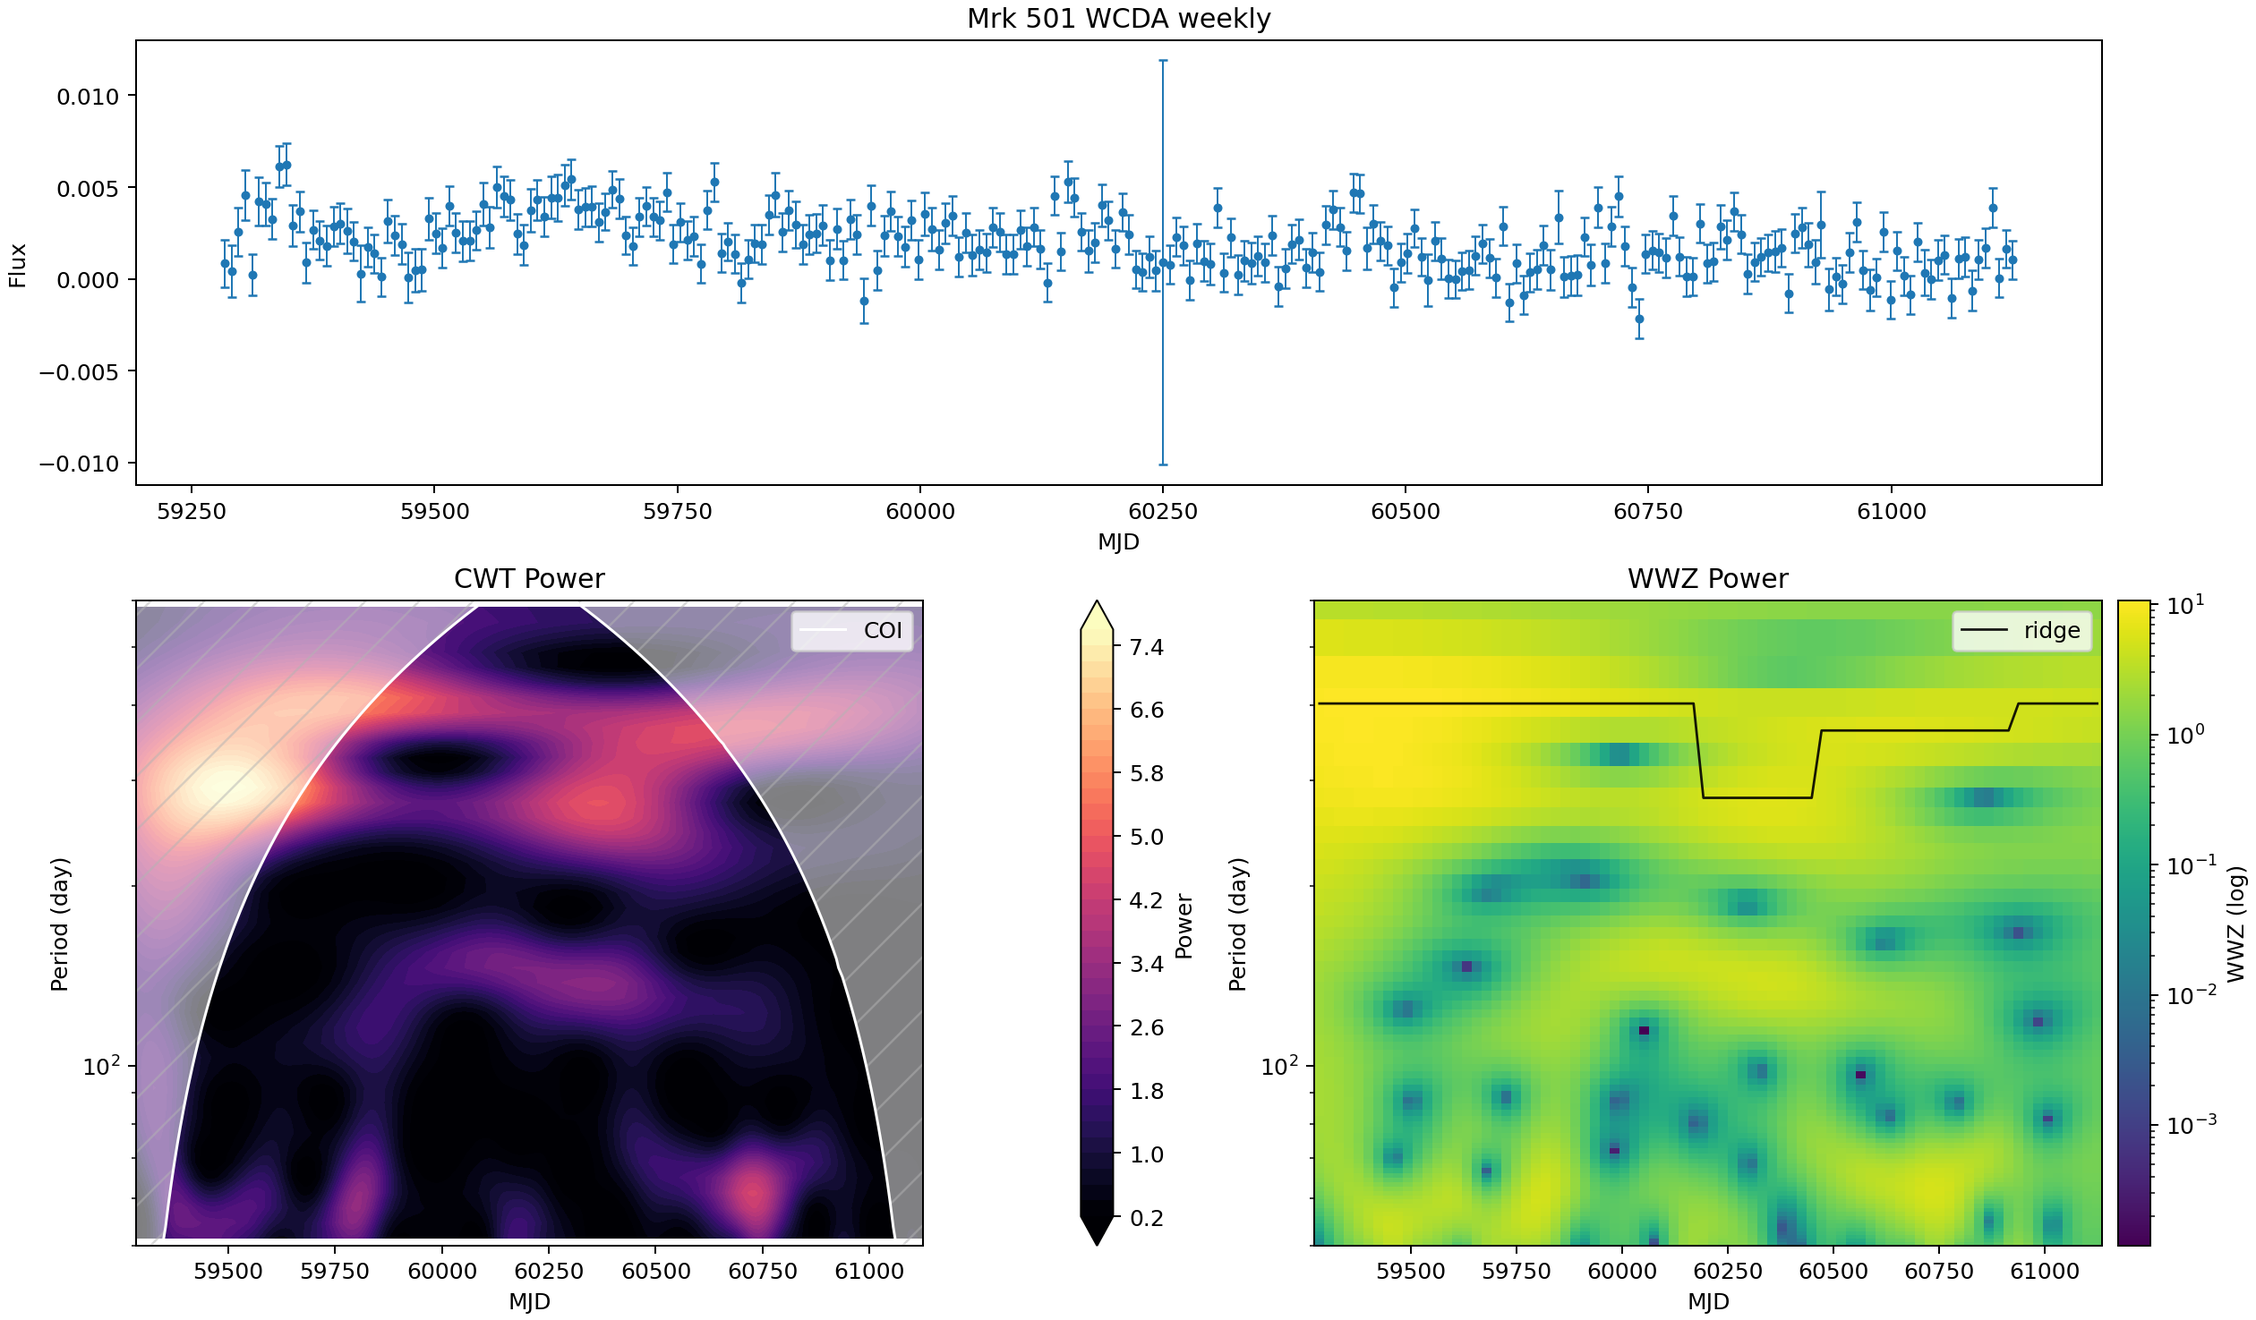
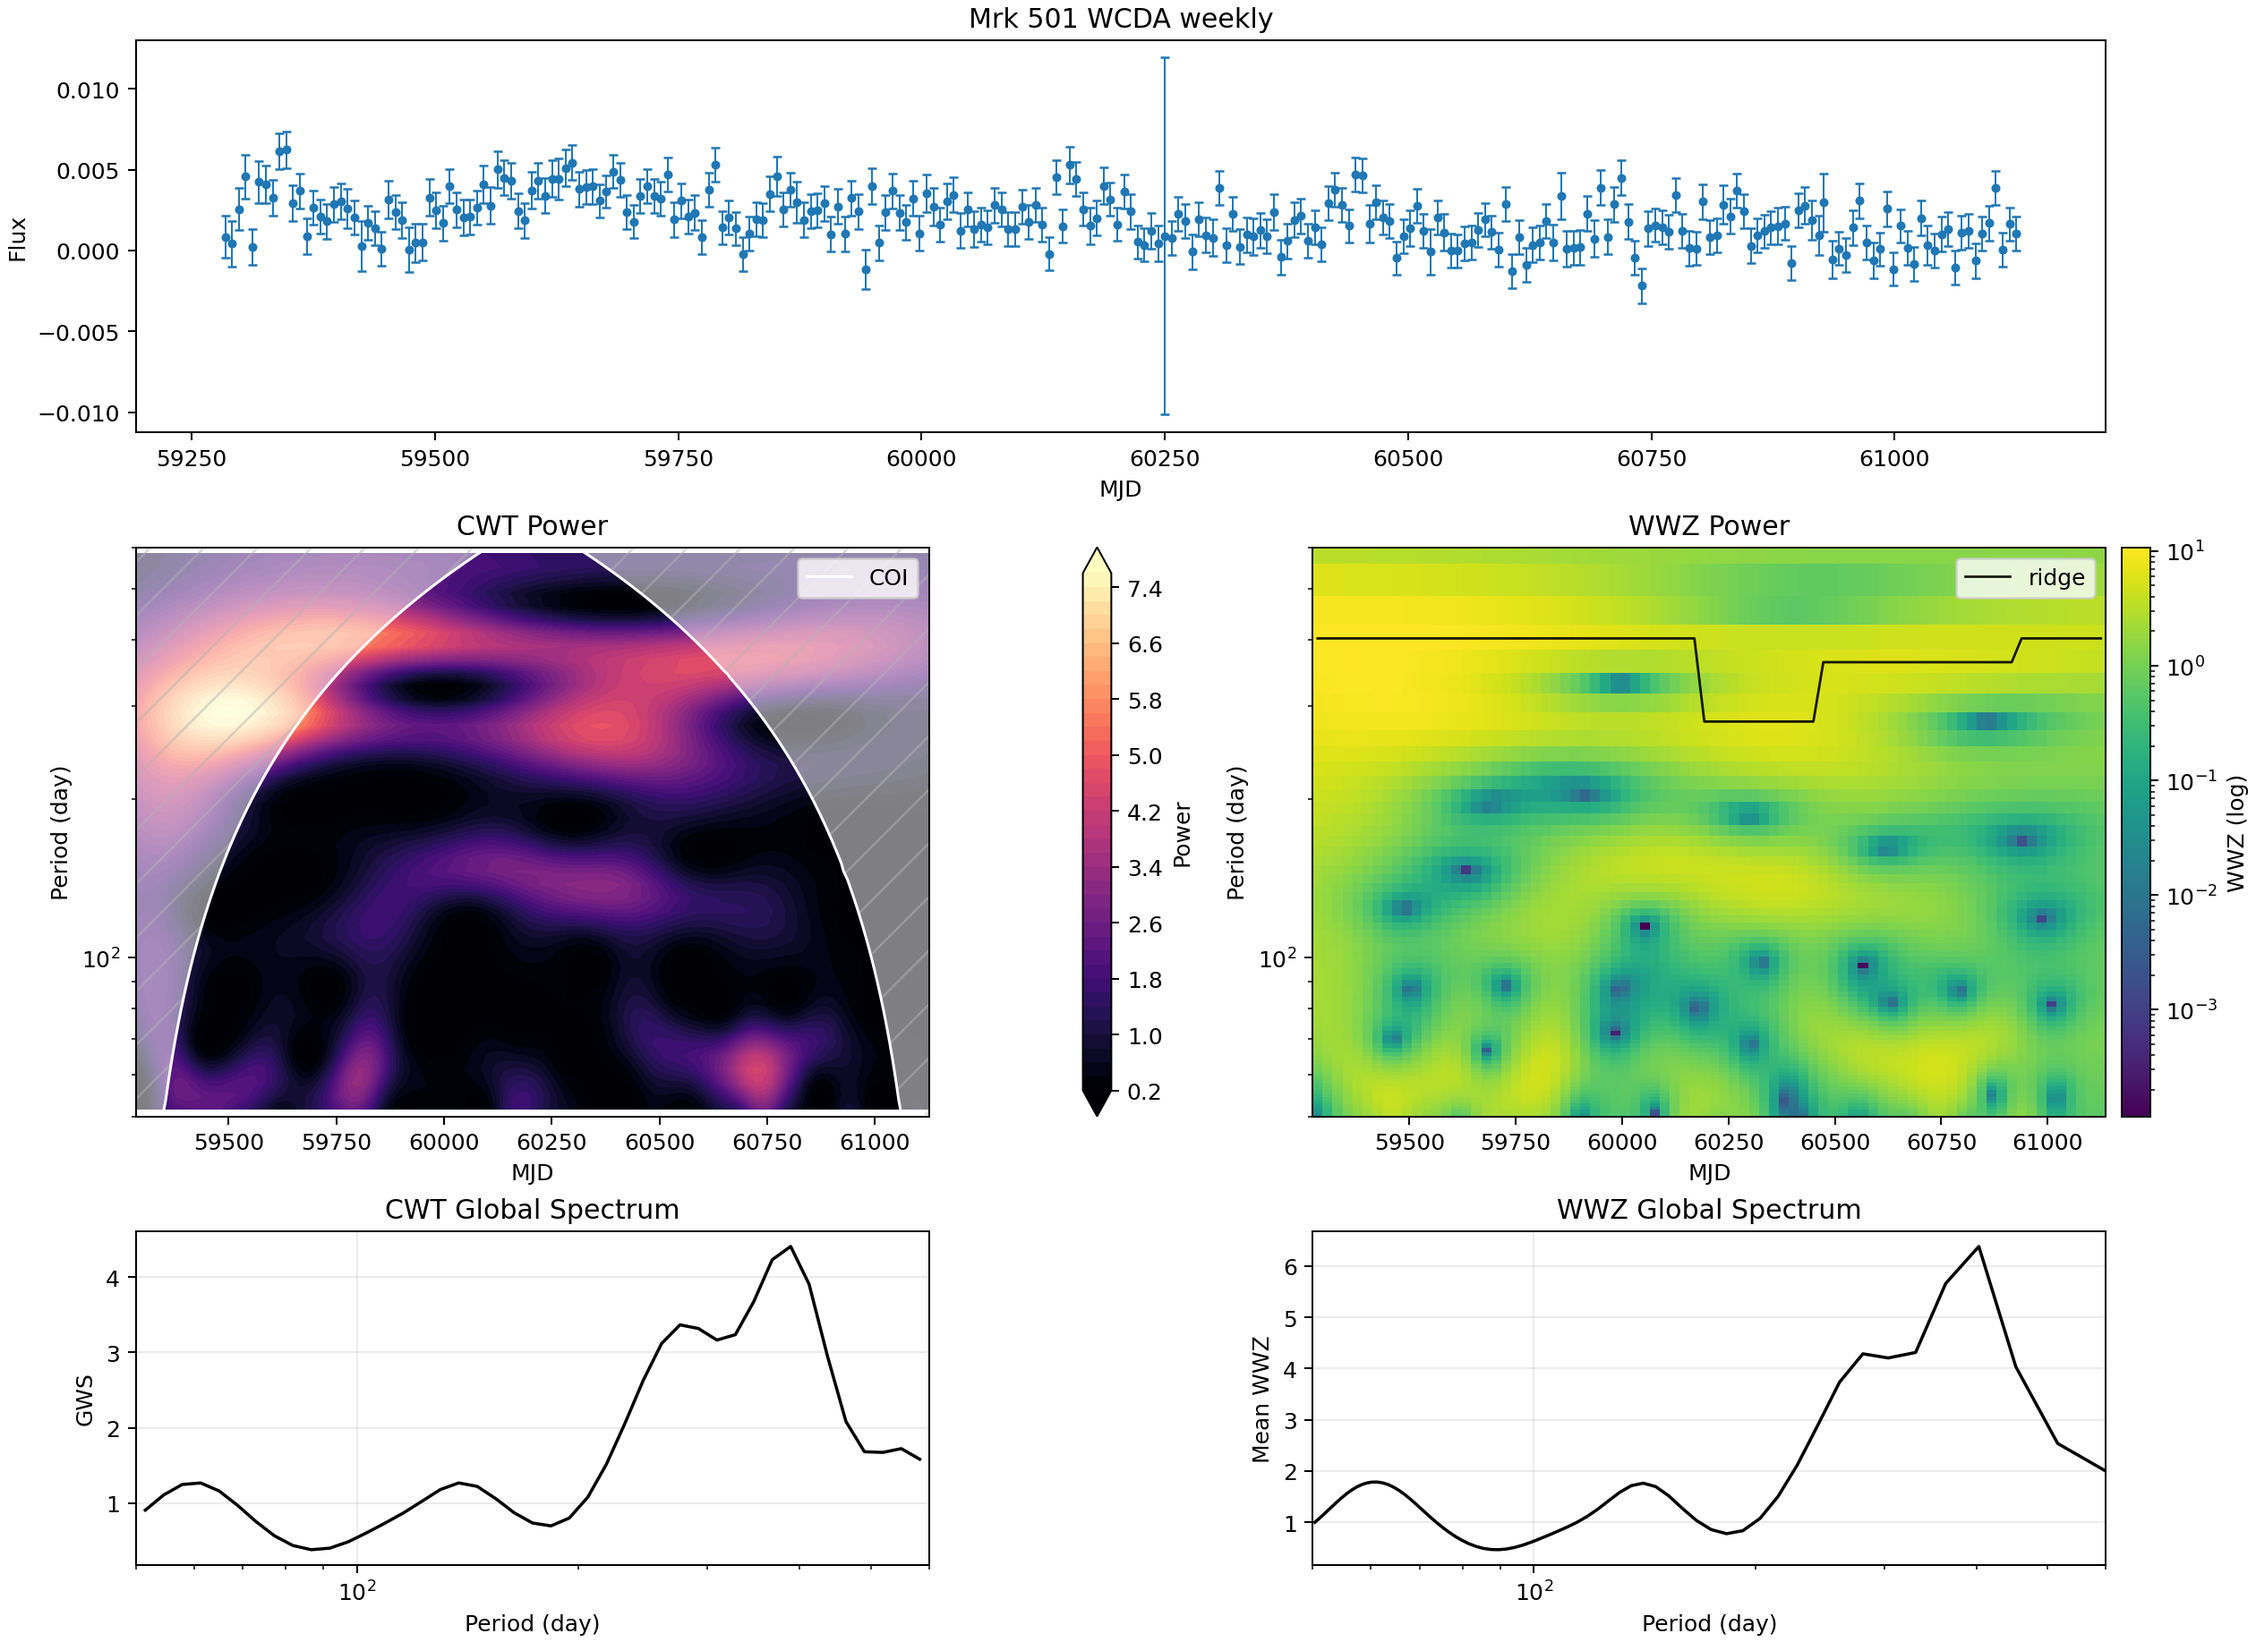
Add weekly QPO global spectra rows

diff --git a/qpo-periodicity-v1/index.html b/qpo-periodicity-v1/index.html
@@ -203,10 +203,10 @@
     <p class="result-note">Quick-look peaks：N=360，MJD 60763.167-61128.167，median cadence 1.000 d。CWT peak 为 104.95 d，GWS=19.650；WWZ mean-power peak 为 109.77 d，power=29.772。</p>
     <h3>WCDA weekly</h3>
     <p class="meta">时间覆盖：2021-03-11 07:59 UTC 至 2026-03-26 04:00 UTC。</p>
-    <figure><img src="assets/mkn421/wcda_weekly_periodicity.png" alt="Mrk 421 WCDA weekly light curve, CWT, and linear-color WWZ"><figcaption>主图使用线性 WWZ heatmap 色标；周期轴仍保持 log scale。</figcaption></figure>
+    <figure><img src="assets/mkn421/wcda_weekly_periodicity.png" alt="Mrk 421 WCDA weekly light curve, CWT, WWZ, and global spectra"><figcaption>主图使用线性 WWZ heatmap 色标；CWT 和 WWZ 的 global spectra 放在 2D map 下方，周期轴仍保持 log scale。</figcaption></figure>
     <details>
       <summary>展开 Mrk 421 WCDA weekly 的 log-color WWZ 对照图</summary>
-      <figure><img src="assets/mkn421/wcda_weekly_periodicity_logcolor.png" alt="Mrk 421 WCDA weekly log-color WWZ comparison"><figcaption>之前的 log-color WWZ 渲染，仅用于视觉对照。</figcaption></figure>
+      <figure><img src="assets/mkn421/wcda_weekly_periodicity_logcolor.png" alt="Mrk 421 WCDA weekly log-color WWZ comparison"><figcaption>之前的 log-color WWZ 渲染，仅用于视觉对照；global spectra 不变。</figcaption></figure>
     </details>
     <p class="result-note">Quick-look peaks：N=264，MJD 59284.333-61125.167，median cadence 7.000 d。CWT peak 为 367.33 d，GWS=4.486；WWZ mean-power peak 为 363.22 d，power=5.177。</p>
     <h3>Fermi weekly on WCDA axis</h3>
@@ -221,10 +221,10 @@
     <h2>Mrk 501 图像</h2>
     <h3>WCDA weekly</h3>
     <p class="meta">时间覆盖：2021-03-11 07:59 UTC 至 2026-03-26 04:00 UTC。</p>
-    <figure><img src="assets/mkn501/wcda_weekly_periodicity.png" alt="Mrk 501 WCDA weekly light curve, CWT, and linear-color WWZ"><figcaption>主图使用线性 WWZ heatmap 色标；周期轴仍保持 log scale。</figcaption></figure>
+    <figure><img src="assets/mkn501/wcda_weekly_periodicity.png" alt="Mrk 501 WCDA weekly light curve, CWT, WWZ, and global spectra"><figcaption>主图使用线性 WWZ heatmap 色标；CWT 和 WWZ 的 global spectra 放在 2D map 下方，周期轴仍保持 log scale。</figcaption></figure>
     <details>
       <summary>展开 Mrk 501 WCDA weekly 的 log-color WWZ 对照图</summary>
-      <figure><img src="assets/mkn501/wcda_weekly_periodicity_logcolor.png" alt="Mrk 501 WCDA weekly log-color WWZ comparison"><figcaption>之前的 log-color WWZ 渲染，仅用于视觉对照。</figcaption></figure>
+      <figure><img src="assets/mkn501/wcda_weekly_periodicity_logcolor.png" alt="Mrk 501 WCDA weekly log-color WWZ comparison"><figcaption>之前的 log-color WWZ 渲染，仅用于视觉对照；global spectra 不变。</figcaption></figure>
     </details>
     <p class="result-note">Quick-look peaks：N=264，MJD 59284.333-61125.167，median cadence 7.000 d。CWT peak 为 389.17 d，GWS=4.407；WWZ mean-power peak 为 402.98 d，power=6.385。</p>
   </section>
@@ -294,10 +294,10 @@
     <p class="result-note">Quick-look peaks: N=360, MJD 60763.167-61128.167, median cadence 1.000 d. CWT peak is 104.95 d with GWS 19.650; WWZ mean-power peak is 109.77 d with power 29.772.</p>
     <h3>WCDA weekly</h3>
     <p class="meta">Time coverage: 2021-03-11 07:59 UTC to 2026-03-26 04:00 UTC.</p>
-    <figure><img src="assets/mkn421/wcda_weekly_periodicity.png" alt="Mrk 421 WCDA weekly light curve, CWT, and linear-color WWZ"><figcaption>Main display uses linear WWZ heatmap color normalization; the period axis remains log-scaled.</figcaption></figure>
+    <figure><img src="assets/mkn421/wcda_weekly_periodicity.png" alt="Mrk 421 WCDA weekly light curve, CWT, WWZ, and global spectra"><figcaption>Main display uses linear WWZ heatmap color normalization; CWT and WWZ global spectra are shown below the 2D maps, and period axes remain log-scaled.</figcaption></figure>
     <details>
       <summary>Show log-color WWZ comparison for Mrk 421 WCDA weekly</summary>
-      <figure><img src="assets/mkn421/wcda_weekly_periodicity_logcolor.png" alt="Mrk 421 WCDA weekly log-color WWZ comparison"><figcaption>Previous log-color WWZ rendering kept for visual comparison only.</figcaption></figure>
+      <figure><img src="assets/mkn421/wcda_weekly_periodicity_logcolor.png" alt="Mrk 421 WCDA weekly log-color WWZ comparison"><figcaption>Previous log-color WWZ rendering kept for visual comparison only; the global spectra are unchanged.</figcaption></figure>
     </details>
     <p class="result-note">Quick-look peaks: N=264, MJD 59284.333-61125.167, median cadence 7.000 d. CWT peak is 367.33 d with GWS 4.486; WWZ mean-power peak is 363.22 d with power 5.177.</p>
     <h3>Fermi weekly on WCDA axis</h3>
@@ -312,10 +312,10 @@
     <h2>Mrk 501 Figures</h2>
     <h3>WCDA weekly</h3>
     <p class="meta">Time coverage: 2021-03-11 07:59 UTC to 2026-03-26 04:00 UTC.</p>
-    <figure><img src="assets/mkn501/wcda_weekly_periodicity.png" alt="Mrk 501 WCDA weekly light curve, CWT, and linear-color WWZ"><figcaption>Main display uses linear WWZ heatmap color normalization; the period axis remains log-scaled.</figcaption></figure>
+    <figure><img src="assets/mkn501/wcda_weekly_periodicity.png" alt="Mrk 501 WCDA weekly light curve, CWT, WWZ, and global spectra"><figcaption>Main display uses linear WWZ heatmap color normalization; CWT and WWZ global spectra are shown below the 2D maps, and period axes remain log-scaled.</figcaption></figure>
     <details>
       <summary>Show log-color WWZ comparison for Mrk 501 WCDA weekly</summary>
-      <figure><img src="assets/mkn501/wcda_weekly_periodicity_logcolor.png" alt="Mrk 501 WCDA weekly log-color WWZ comparison"><figcaption>Previous log-color WWZ rendering kept for visual comparison only.</figcaption></figure>
+      <figure><img src="assets/mkn501/wcda_weekly_periodicity_logcolor.png" alt="Mrk 501 WCDA weekly log-color WWZ comparison"><figcaption>Previous log-color WWZ rendering kept for visual comparison only; the global spectra are unchanged.</figcaption></figure>
     </details>
     <p class="result-note">Quick-look peaks: N=264, MJD 59284.333-61125.167, median cadence 7.000 d. CWT peak is 389.17 d with GWS 4.407; WWZ mean-power peak is 402.98 d with power 6.385.</p>
   </section>

diff --git a/qpo-periodicity-v1/periodicity_v1_report.md b/qpo-periodicity-v1/periodicity_v1_report.md
@@ -31,7 +31,7 @@ No red-noise simulations, Monte Carlo thresholds, local significance contours, p
 
 ## Regular WWZ Color-Scale Comparison
 
-Main regular figures now use linear WWZ heatmap color normalization:
+Main regular figures now use linear WWZ heatmap color normalization. The Mrk 421 and Mrk 501 WCDA weekly summary figures additionally show CWT and WWZ global spectra below the 2D maps.
 
 ![Mrk 421 WCDA daily linear-color WWZ](assets/mkn421/wcda_daily_periodicity.png)
 
@@ -39,11 +39,11 @@ Log-color reference kept for comparison:
 
 ![Mrk 421 WCDA daily log-color WWZ](assets/mkn421/wcda_daily_periodicity_logcolor.png)
 
-![Mrk 421 WCDA weekly linear-color WWZ](assets/mkn421/wcda_weekly_periodicity.png)
+![Mrk 421 WCDA weekly linear-color WWZ with global spectra](assets/mkn421/wcda_weekly_periodicity.png)
 
 Log-color reference kept for comparison:
 
-![Mrk 421 WCDA weekly log-color WWZ](assets/mkn421/wcda_weekly_periodicity_logcolor.png)
+![Mrk 421 WCDA weekly log-color WWZ with global spectra](assets/mkn421/wcda_weekly_periodicity_logcolor.png)
 
 ![Mrk 421 Fermi weekly on WCDA axis linear-color WWZ](assets/mkn421/fermi_weekly_on_wcda_axis_periodicity.png)
 
@@ -51,11 +51,11 @@ Log-color reference kept for comparison:
 
 ![Mrk 421 Fermi weekly on WCDA axis log-color WWZ](assets/mkn421/fermi_weekly_on_wcda_axis_periodicity_logcolor.png)
 
-![Mrk 501 WCDA weekly linear-color WWZ](assets/mkn501/wcda_weekly_periodicity.png)
+![Mrk 501 WCDA weekly linear-color WWZ with global spectra](assets/mkn501/wcda_weekly_periodicity.png)
 
 Log-color reference kept for comparison:
 
-![Mrk 501 WCDA weekly log-color WWZ](assets/mkn501/wcda_weekly_periodicity_logcolor.png)
+![Mrk 501 WCDA weekly log-color WWZ with global spectra](assets/mkn501/wcda_weekly_periodicity_logcolor.png)
 
 ## xgm poster 复现检查
 
